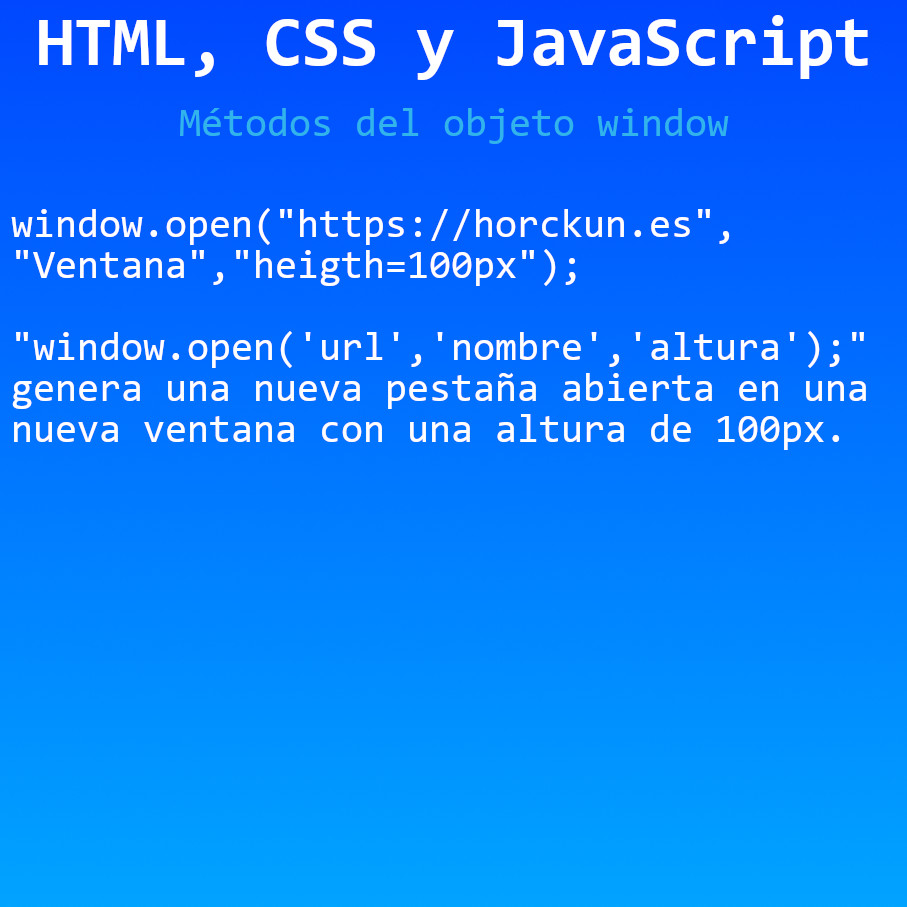
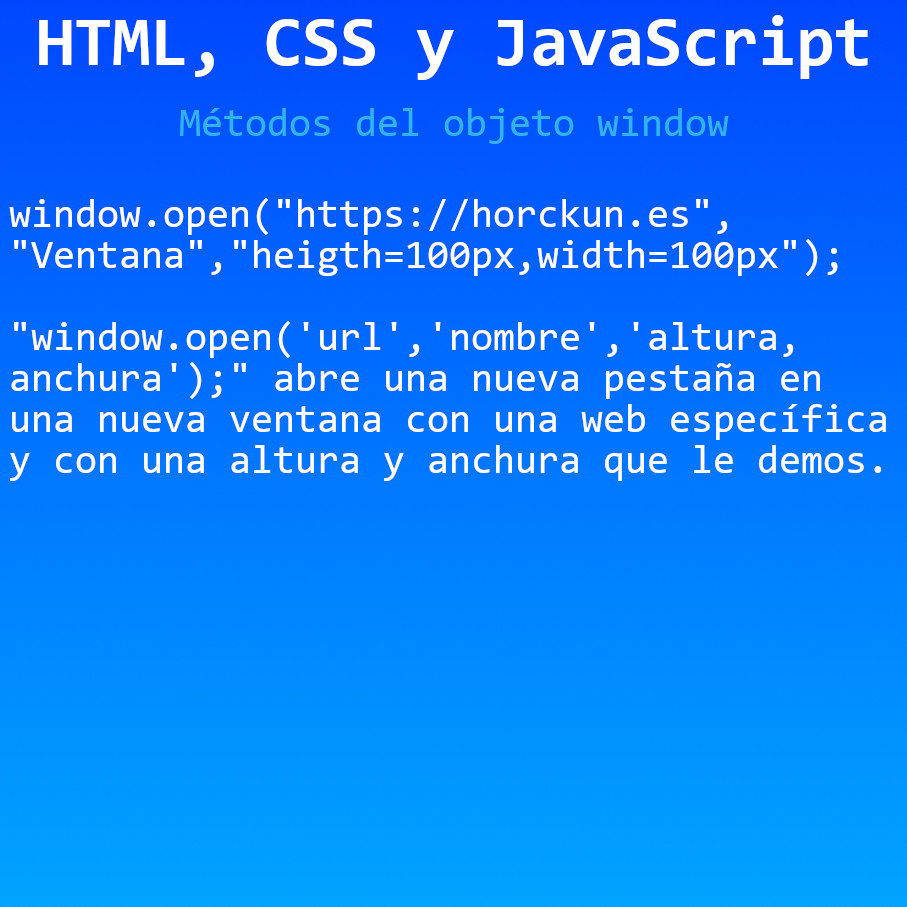
Métodos del objeto window
Métodos del objeto window en JavaScript

diff --git a/HTML, CSS y JavaScript/Métodos del objeto window/js/funciones.js b/HTML, CSS y JavaScript/Métodos del objeto window/js/funciones.js
@@ -2,5 +2,7 @@
 // abrir web en una nueva pestaña
 window.open("https://horckun.es","Nueva pestaña");
 // ABRIR VENTANA NUEVA
-// abrir web en una nueva ventana
+// abrir web en una nueva ventana con altura
 window.open("https://horckun.es","Ventana","heigth=100px");
+// abrir web en una nueva ventana con altura y anchura
+window.open("https://horckun.es","Ventana","heigth=100px,width=100px");
